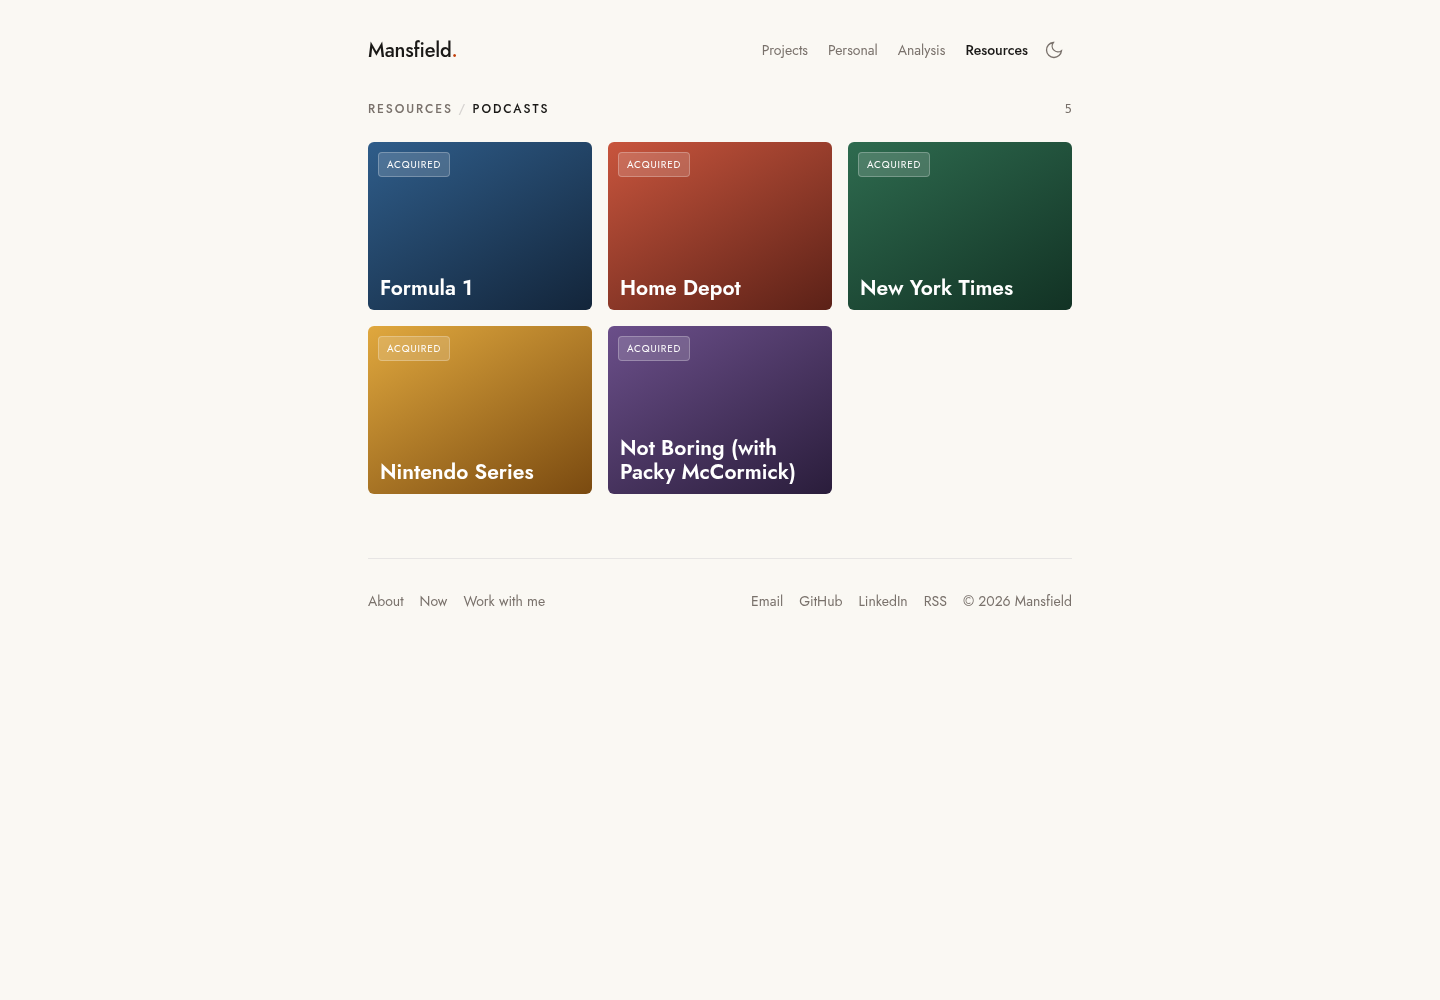
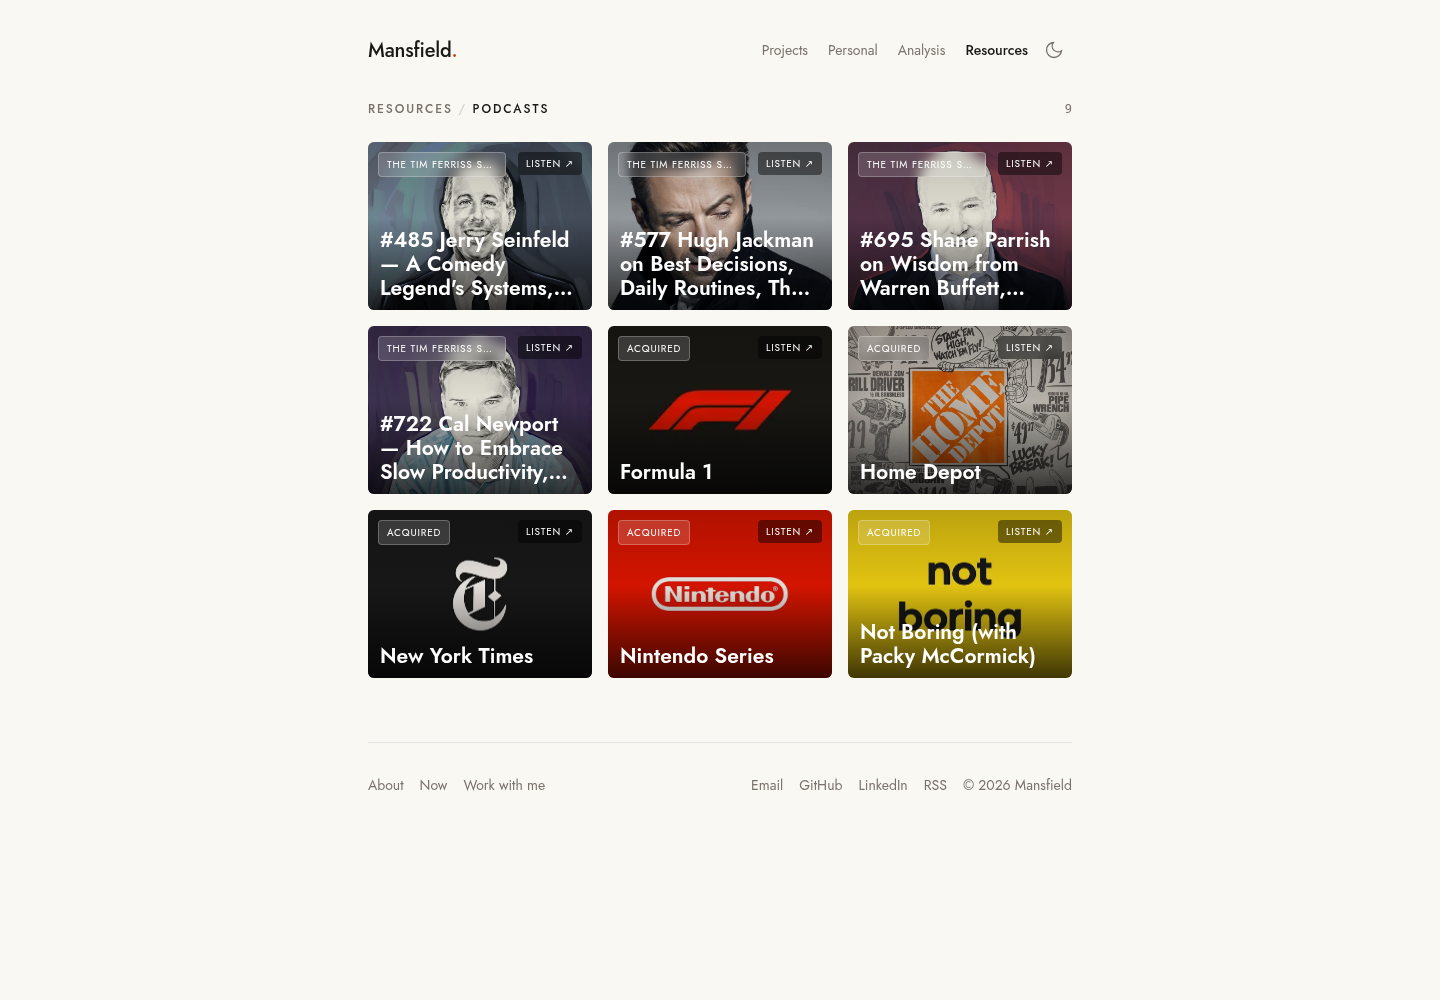
Podcasts: covers (portada) downloaded locally, Listen links; read Main/Ideas/Podcasts

diff --git a/src/resources.ts b/src/resources.ts
@@ -113,9 +113,10 @@ export const FAVORITE_BOOKS: Book[] = FAVORITES.map((f) => BOOKS.find((b) => b.t
 
 // His podcast ideas from the vault (Main/Ideas, `tipo: podcast`; see scripts/import-obsidian.mjs), one card per episode.
 const PODCAST_INFO: Record<string, { hosts?: string; comment?: string }> = {
+  'The Tim Ferriss Show': { hosts: 'Tim Ferriss' },
   Acquired: { hosts: 'Ben Gilbert & David Rosenthal', comment: 'Their Microsoft episode is the reason this site is called Mansfield: I liked how they named things and wanted a name like that.' },
 };
-export const EPISODES: PodcastEpisode[] = podcastList.map((p, i) => ({ title: p.title, url: p.url, date: p.date, ideas: p.ideas, show: p.show ?? 'Other', hosts: PODCAST_INFO[p.show ?? '']?.hosts, tone: tone(i) }));
+export const EPISODES: PodcastEpisode[] = podcastList.map((p, i) => ({ title: p.title, url: p.url, date: p.date, ideas: p.ideas, img: (p as { img?: string }).img, show: p.show ?? 'Other', hosts: PODCAST_INFO[p.show ?? '']?.hosts, tone: tone(i) }));
 const shows = [...new Set(podcastList.map((p) => p.show ?? 'Other'))];
 export const PODCASTS: Podcast[] = shows
   .map((name, i) => ({ name, ...PODCAST_INFO[name], tone: tone(i), episodes: podcastList.filter((p) => (p.show ?? 'Other') === name).map(({ title, url, date, ideas }) => ({ title, url, date, ideas })) }))
